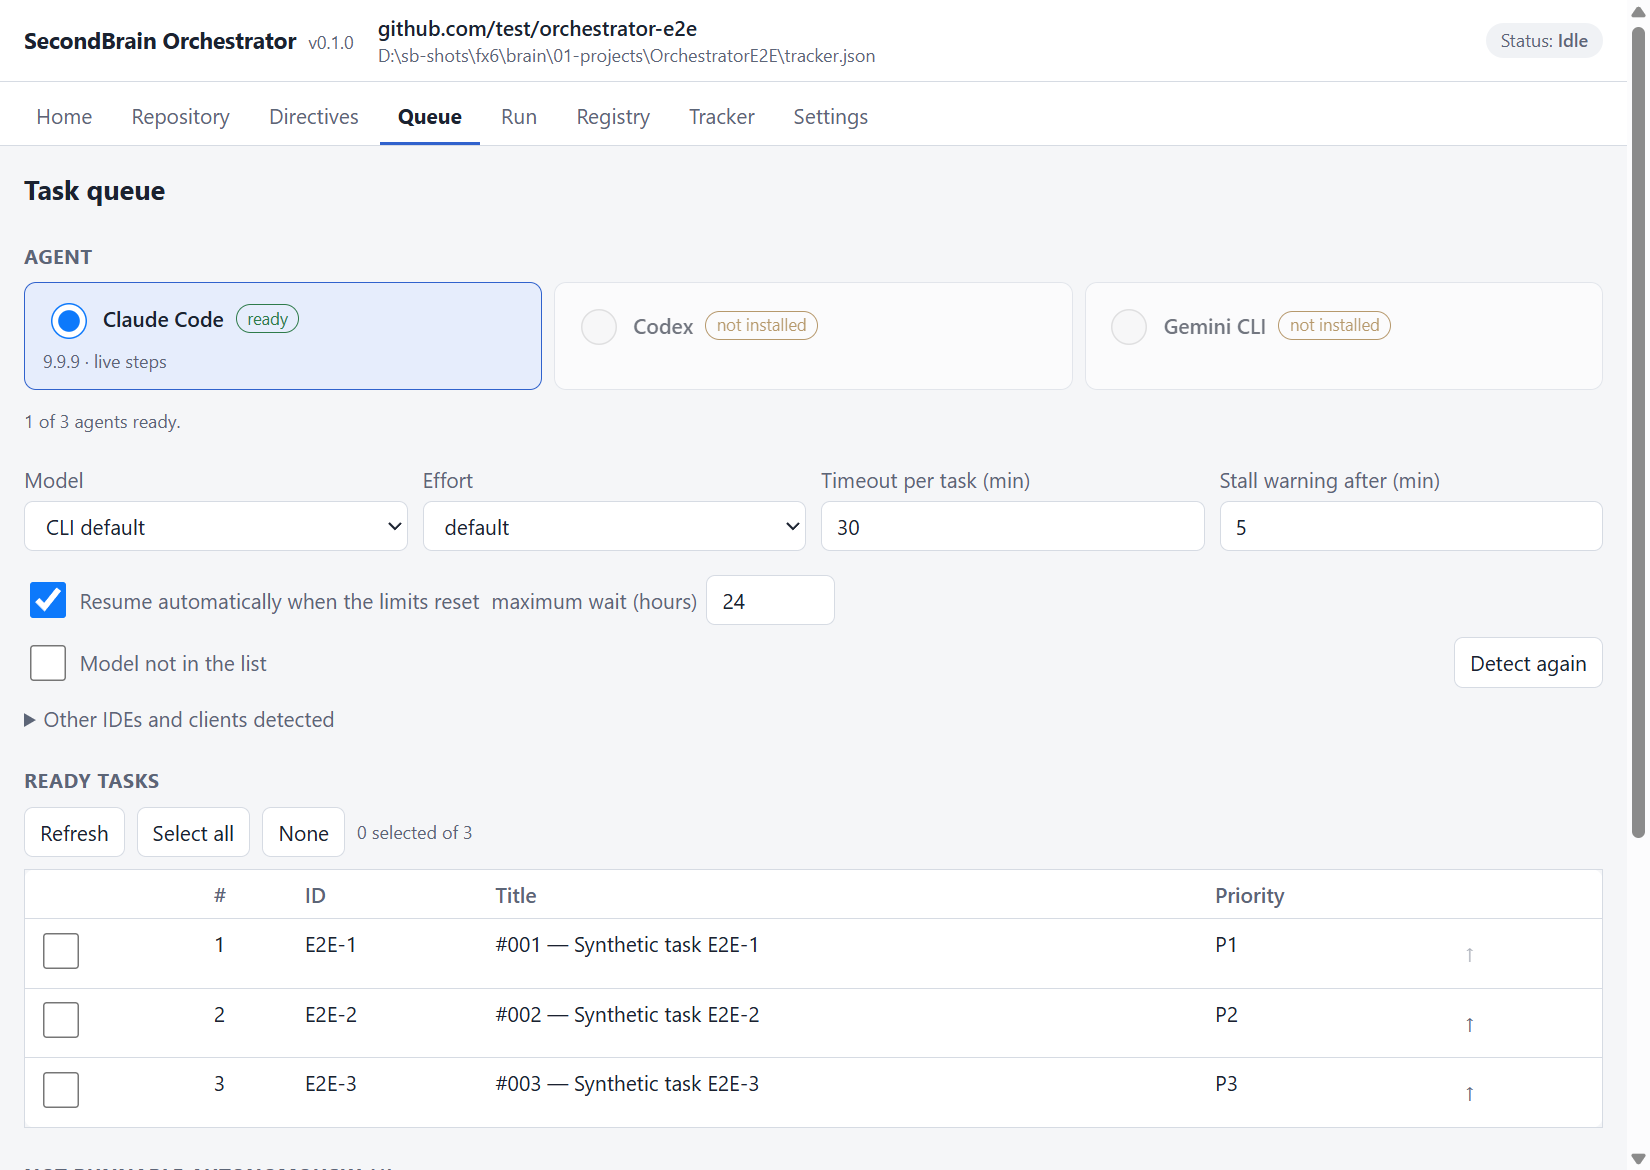
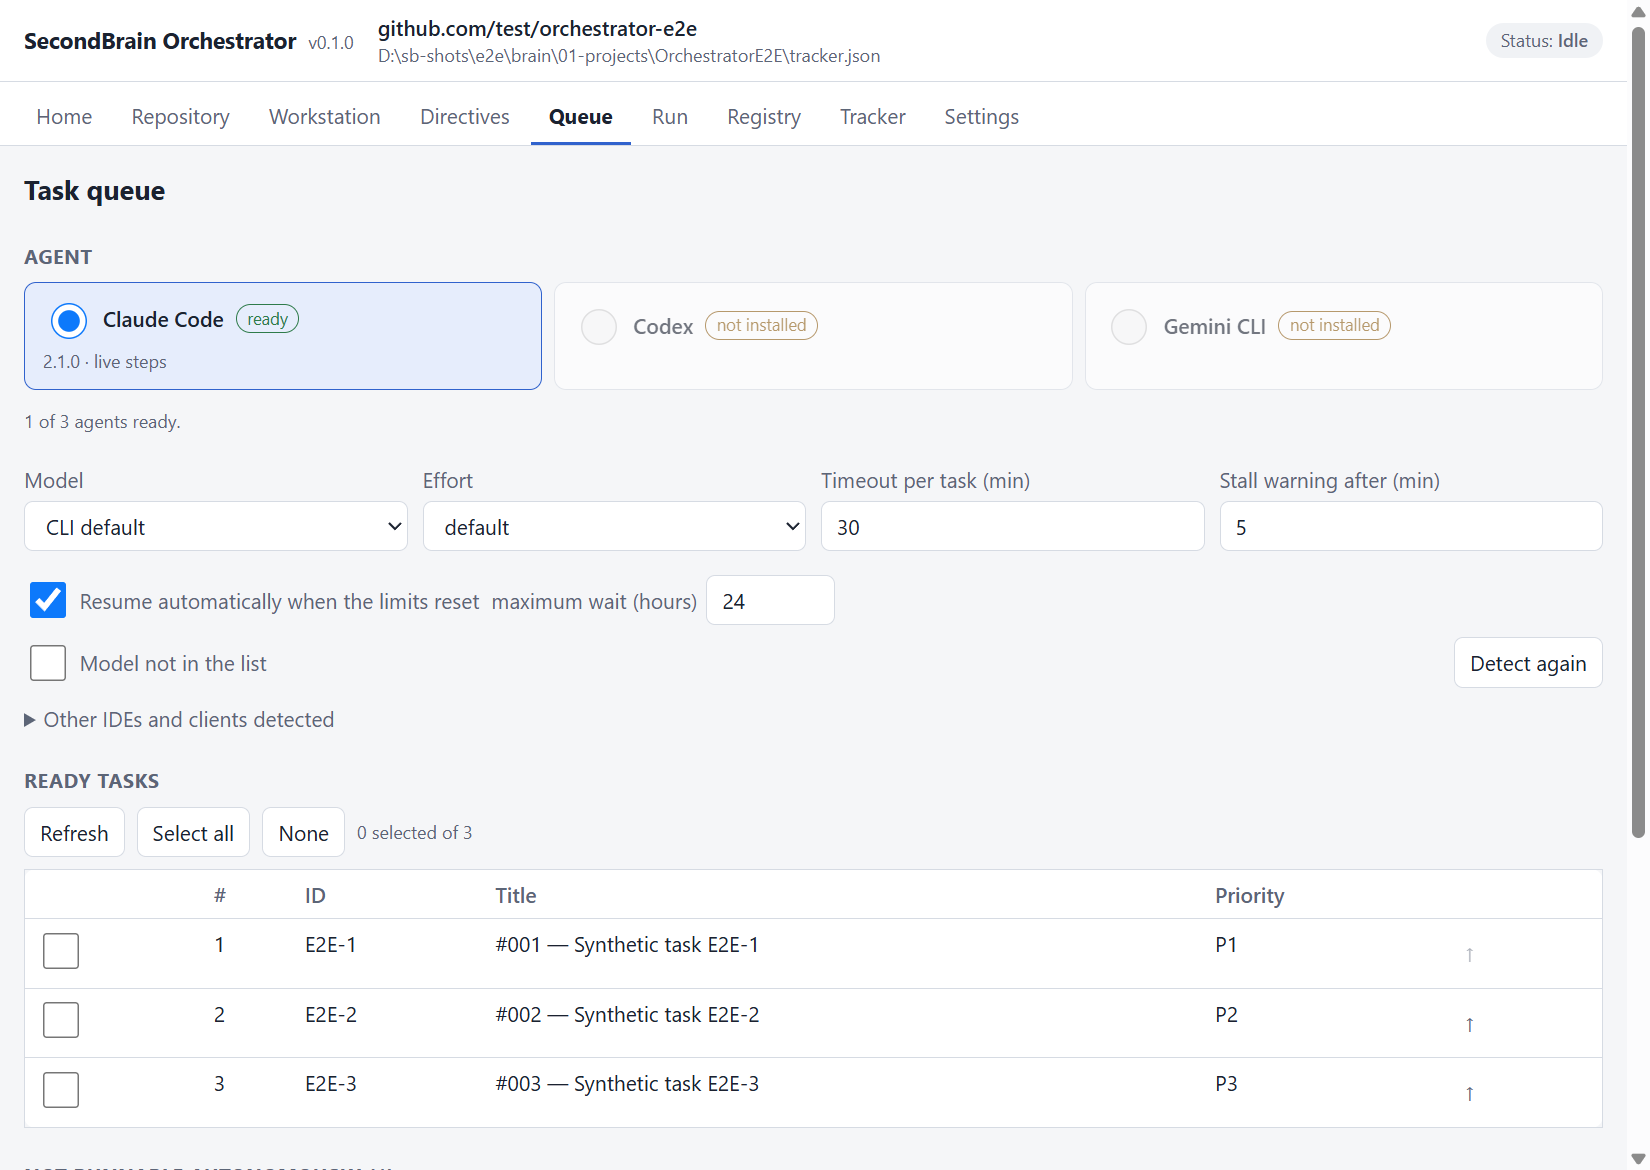
Orchestrator screenshots: hide the fake agent version 9.9.9 and fix the Tracker date format and Git preference wording (#693)
Executed by orchestrate-tasks.ps1 (claude).

Changed region(s): [[0.1545, 0.0923, 0.5564, 0.1231], [0.2782, 0.0308, 0.5255, 0.0615], [0.5873, 0.0923, 0.6182, 0.1231]]

diff --git a/app/orchestrator/e2e/zz-capture.audit.ts b/app/orchestrator/e2e/zz-capture.audit.ts
@@ -64,6 +64,7 @@ test("capture queue and tracker", async () => {
   console.log("TAB", await page.locator('.steps button[aria-selected="true"]').textContent());
   await page.locator('.steps button[data-tab="repo"]').click();
   console.log("BODY", (await page.locator("#tab-repo").innerText()).slice(0, 1500));
+  await tab(page, "queue");
   await page.locator("#q-tasks tr").first().waitFor({ timeout: 120_000 });
   await page.locator("#q-agents label.agent").nth(2).waitFor({ timeout: 120_000 });
   await page.waitForTimeout(500);

diff --git a/docs/orchestratore.md b/docs/orchestratore.md
@@ -76,14 +76,14 @@ The header always shows the loaded repository, its tracker and the run badge. St
 
 ![Repository step on first run: an empty checkout path field with Browse and Load buttons and no recent repository](assets/orchestrator-repository.png)
 ![Directives step: the dossier target, an empty directives editor, Propose, Import and Preview buttons and the startup budget bar at 25.7 percent](assets/orchestrator-directives.png)
-![Queue step: Claude Code ready, Codex and Gemini CLI not installed, model, effort and timeout fields and three synthetic ready tasks](assets/orchestrator-queue.png)
+![Queue step: Claude Code 2.1.0 ready, Codex and Gemini CLI not installed, model, effort and timeout fields and three synthetic ready tasks](assets/orchestrator-queue.png)
 ![Registry step: five synthetic tasks with status, tool, last activity and run count](assets/orchestrator-registry.png)
-![Tracker step: the bound project, its Git and GitHub update preference and the new agent definition form](assets/orchestrator-tracker.png)
+![Tracker step: the bound project, the Tracker updated date as 2026-11-17 19:04, its Git and GitHub update preference (commit and push on main, proposed default) and the new agent definition form](assets/orchestrator-tracker.png)
 ![Waiting decision: the analysis dialog for a task that cannot run alone, asking which README section to add with Installation recommended, Usage and a free-text answer](assets/orchestrator-decision.png)
 ![Run step after a finished fixture run: status, elapsed time, progress, the outcome table and the run folder under the fixture host ID ws-0123456789abcdef](assets/orchestrator-run.png)
 ![Settings step: SecondBrain root and PowerShell 7 executable fields with generic placeholder paths and the light model selectors](assets/orchestrator-settings.png)
 
-Screenshots: real release binary (app v0.1.0, SecondBrain 2.17.0, captured 2026-11-16) driven by `app/orchestrator/e2e/ui-audit.audit.ts` on the synthetic fixture of `scripts/test-orchestrator-fixture.ps1`; the agent is the fixture's fake Claude Code (reported as 2.1.0) and the task titles are fixture text. The last three (waiting decision, Run, Settings; captured 2026-11-17 by `app/orchestrator/e2e/docs-screenshots.audit.ts`) need care because the run folder contains the workstation ID (`hosts/ws-...`, derived from the machine name and user SID) and Settings holds the workstation's own paths. The app is unchanged and the capture script handles it: before each shot every `ws-<16 hex>` in the page is replaced by the fixture ID `ws-0123456789abcdef` and the capture fails if a real one is left, and the Settings fields are filled with generic placeholder values. The images therefore show those values, not the ones of the machine that took them.
+Screenshots: real release binary (app v0.1.0, SecondBrain 2.17.0, captured 2026-11-16, Queue and Tracker recaptured 2026-11-17) driven by `app/orchestrator/e2e/ui-audit.audit.ts` on the synthetic fixture of `scripts/test-orchestrator-fixture.ps1`; the agent is the fixture's fake Claude Code (reported as 2.1.0) and the task titles are fixture text. The last three (waiting decision, Run, Settings; captured 2026-11-17 by `app/orchestrator/e2e/docs-screenshots.audit.ts`) need care because the run folder contains the workstation ID (`hosts/ws-...`, derived from the machine name and user SID) and Settings holds the workstation's own paths. The app is unchanged and the capture script handles it: before each shot every `ws-<16 hex>` in the page is replaced by the fixture ID `ws-0123456789abcdef` and the capture fails if a real one is left, and the Settings fields are filled with generic placeholder values. The images therefore show those values, not the ones of the machine that took them.
 
 **Closing the window during a run** asks what to do: leave it running and close, stop after the task and close, abort now and close, or cancel. A run left running keeps working; when the app is opened again on that repository it finds the run through `status.json`, reattaches, replays the agent's steps and follows it to the end. The runner refuses a second run on the same repository while the first is alive, from the app or from the command line.
 
